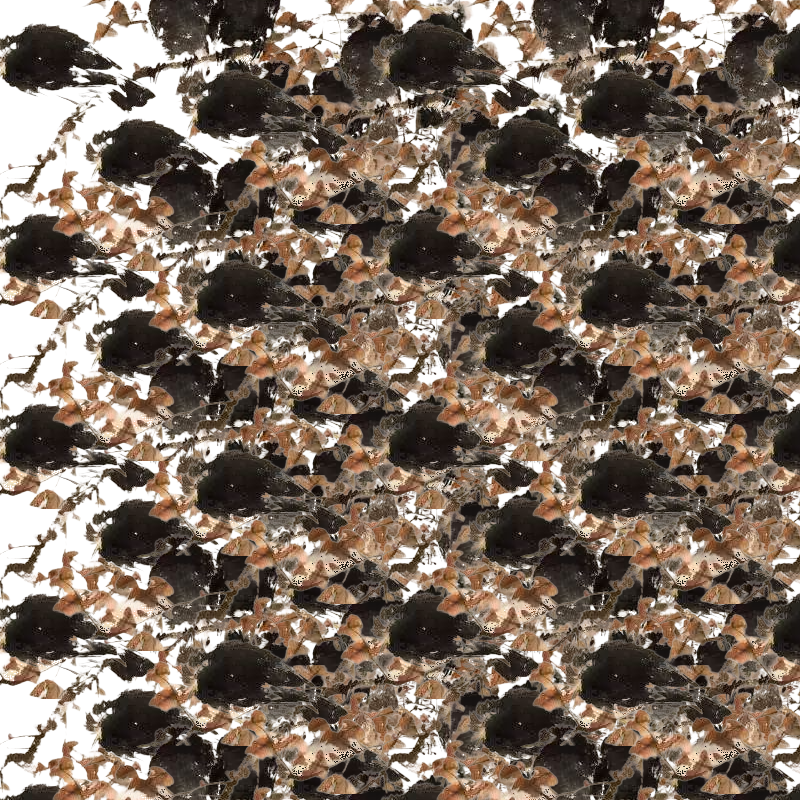
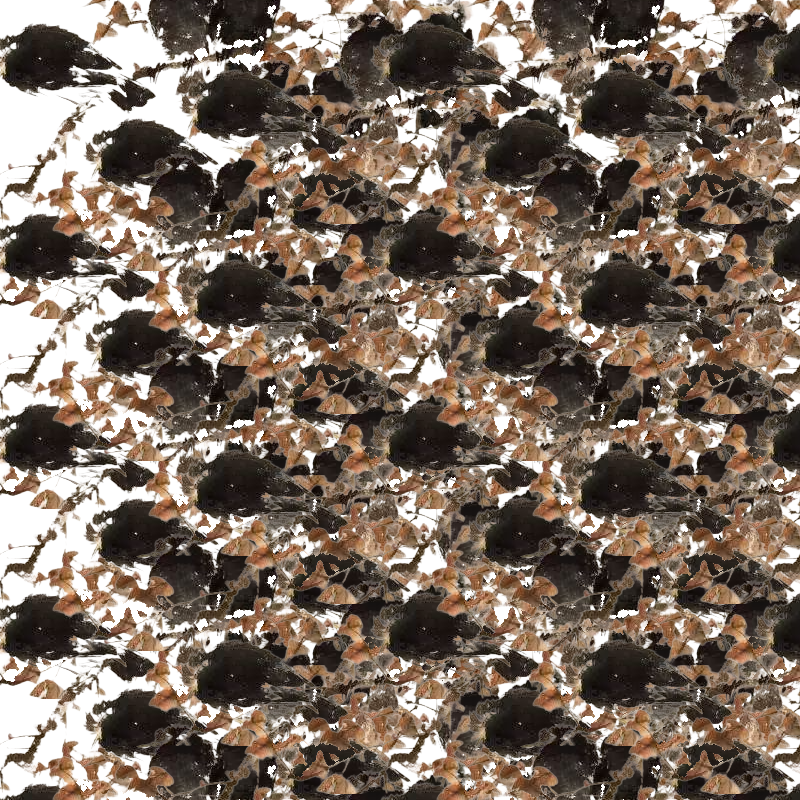
更改了风格主体图, 去除了其中一些是背景的颜色

diff --git a/3_code_area/code_papers/AesFA/Config.py b/3_code_area/code_papers/AesFA/Config.py
@@ -7,8 +7,8 @@ class Config:
 
     data_num = 60000        # Maximum # of training data
 
-    content_dir = '/mnt/sda/zxt/3_code_area/0_code_hello/test_metirc3d/outputs/cameraman/merge'
-    style_dir = '/mnt/sda/zxt/3_code_area/code_papers/AesFA/img/main_style_black'
+    content_dir = '/mnt/sda/zxt/3_code_area/0_code_hello/test_metirc3d/outputs/03/merge'
+    style_dir = '/mnt/sda/zxt/3_code_area/code_papers/AesFA/img/birds_main_multi_black'
     
     file_n = 'main'
     log_dir = './log/' + file_n
@@ -21,7 +21,7 @@ class Config:
         test_style_size = 256
         content_dir = content_dir
         style_dir = style_dir
-        img_dir = './output/'+file_n+'/'+ 'cameraman'+'/'+ 'test3' + '/' + 'main'   #ouput dir, 代码会帮忙创建文件夹, 可以不用自己创建
+        img_dir = './output/'+file_n+'/'+ '03'+'/'+ 'test4' + '/' + 'main'   #ouput dir, 代码会帮忙创建文件夹, 可以不用自己创建
 
     elif phase == 'style_blending':
         blend_load_size = 256

diff --git a/3_code_area/0_code_hello/test_metirc3d/utils/tranparent.py b/3_code_area/0_code_hello/test_metirc3d/utils/tranparent.py
@@ -80,7 +80,7 @@ if __name__ == '__main__':
     # output_dir = '/mnt/sda/zxt/3_code_area/0_code_hello/test_metirc3d/transparent_outputs/img_background'
     
     # for img_name in all_items:
-    #     img_path = input_dir + '/' + img_name
+    #     img_path = input_dir + '/' + img_namee
     #     save_path = output_dir + '/' + 'transparent_' + img_name
     #     make_transparent_black(img_path)
     
